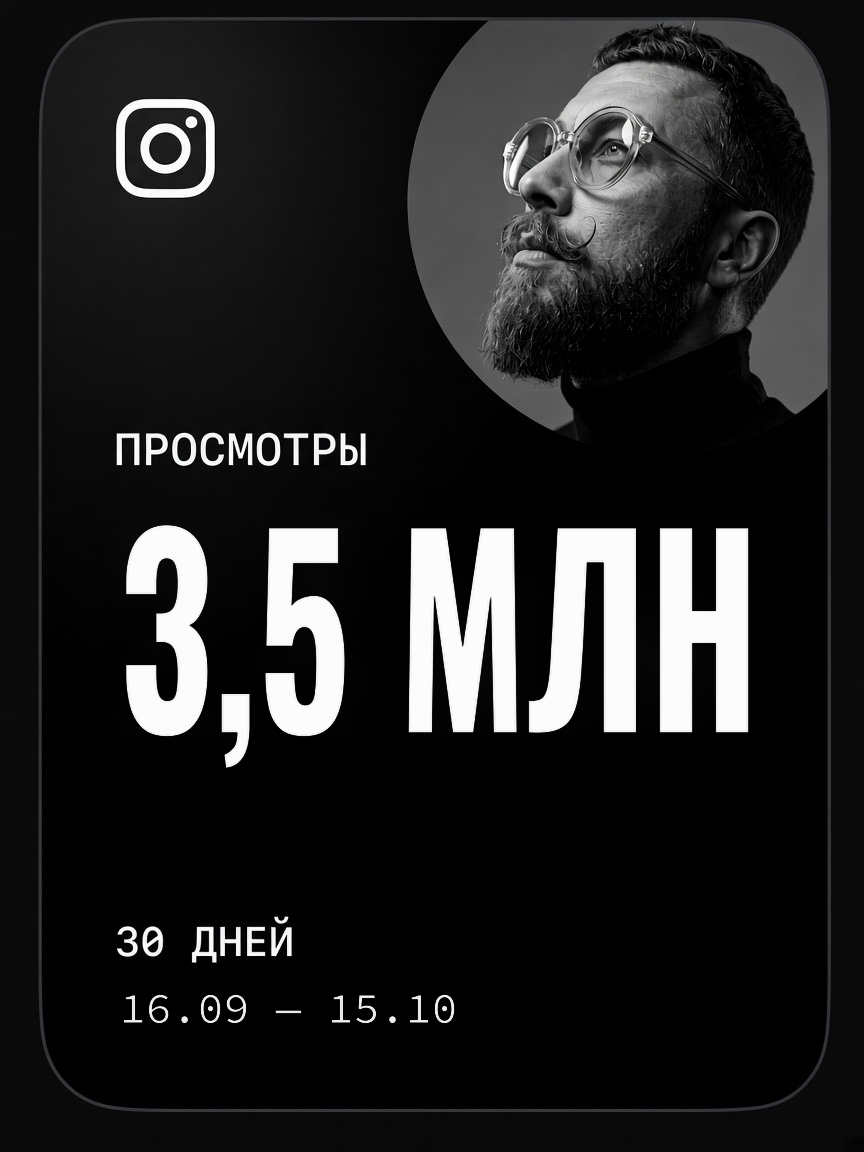
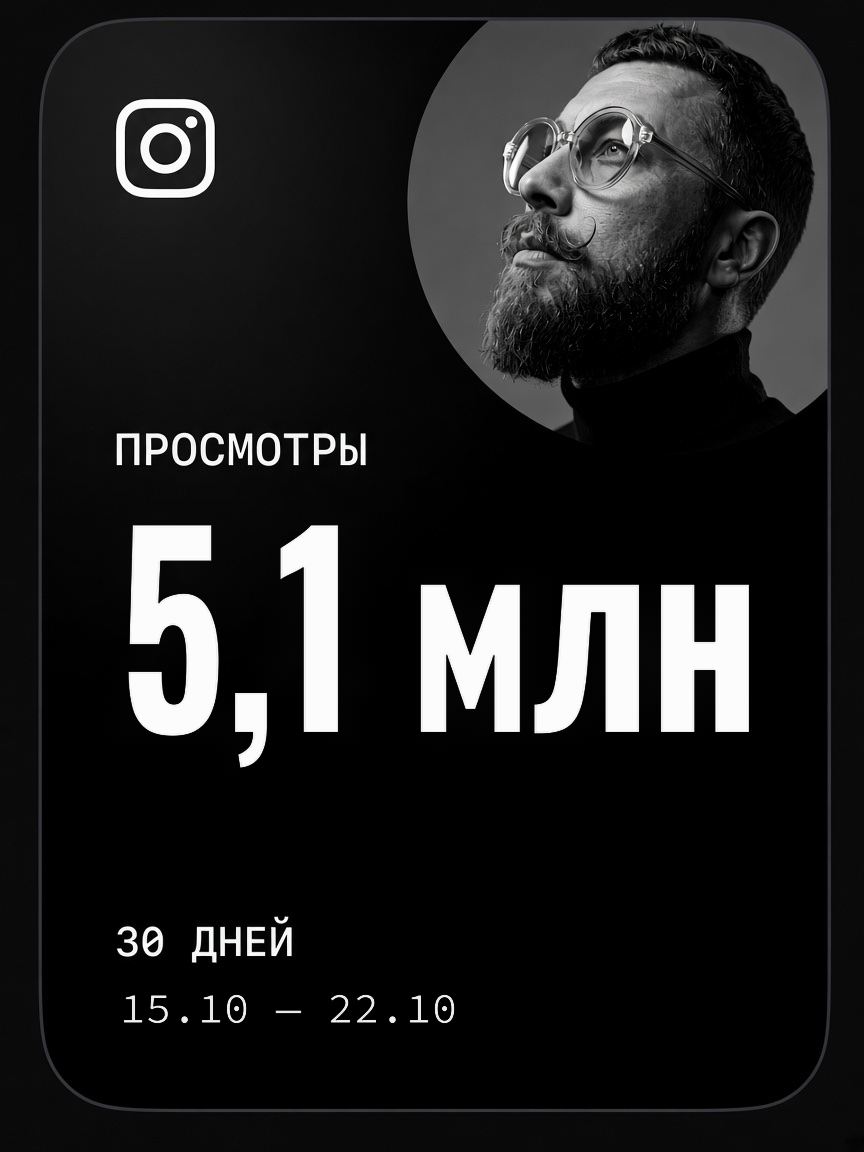
Update story card to 5.1M views and 15.10–22.10
Keep the original portrait; only change the views number and
date range on the Instagram stats story graphic.

diff --git a/generate_story_views.py b/generate_story_views.py
@@ -11,7 +11,7 @@ ROOT = Path(__file__).resolve().parent
 ORIG = ROOT / "assets" / "story-original.jpg"
 FONT_NUM = ROOT / "fonts" / "Oswald-Bold.ttf"
 FONT_DATE = ROOT / "fonts" / "SourceCodePro-Regular.ttf"
-OUT_JPG = ROOT / "story-views-3.5mln.jpg"
+OUT_JPG = ROOT / "story-views-5.1mln.jpg"
 OUT_PNG = ROOT / "output" / "story-views-updated.png"
 
 CX, CY, R = 654, 212, 202
@@ -51,7 +51,7 @@ def main() -> None:
     x0, y0 = int(xs.min()), int(ys.min())
     box_w, box_h = int(xs.max() - xs.min()) + 1, int(ys.max() - ys.min()) + 1
 
-    text = "3,5 МЛН"
+    text = "5,1 млн"
     scale = 6
     font = ImageFont.truetype(str(FONT_NUM), box_h * scale)
     bb = ImageDraw.Draw(Image.new("L", (1, 1))).textbbox((0, 0), text, font=font)
@@ -81,7 +81,7 @@ def main() -> None:
     d_h = int(dys.max() - dys.min()) + 1
     days = orig[940:962, 117:290]
     col = tuple(int(c) for c in days[days.mean(2) > 180].mean(0))
-    date_text = "16.09 — 15.10"
+    date_text = "15.10 — 22.10"
     font = ImageFont.truetype(str(FONT_DATE), d_h * scale)
     bb = ImageDraw.Draw(Image.new("L", (1, 1))).textbbox((0, 0), date_text, font=font)
     g = Image.new("L", (bb[2] - bb[0] + 4 * scale, bb[3] - bb[1] + 4 * scale), 0)
